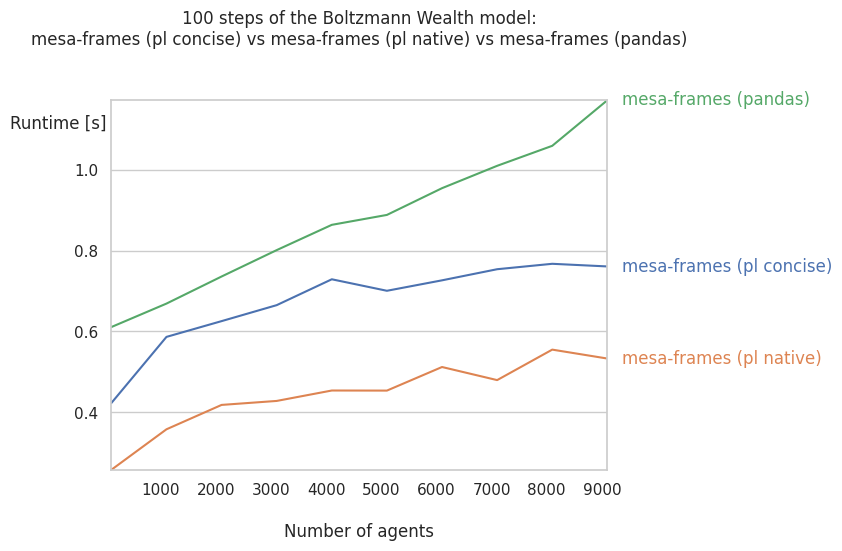
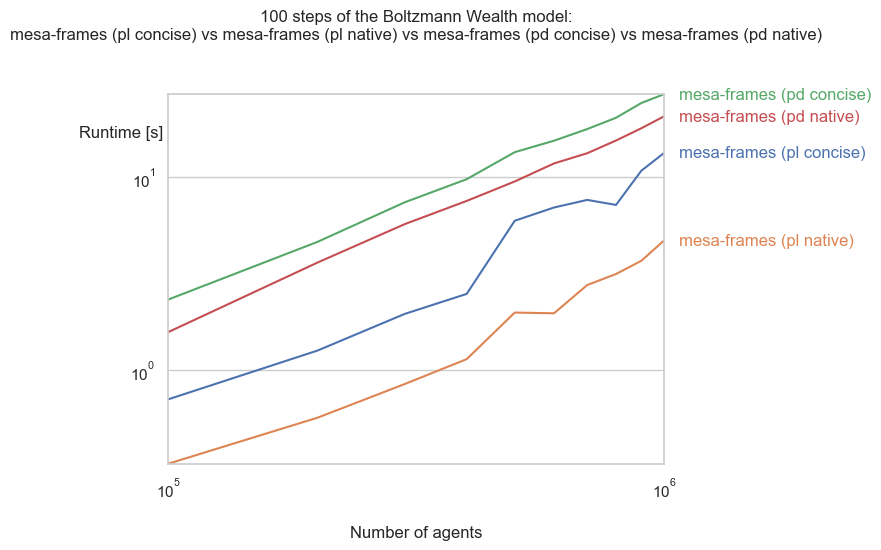
speed up mesa, add perfplot to dev dependencies

diff --git a/docs/scripts/readme_plot.py b/docs/scripts/readme_plot.py
@@ -1,3 +1,5 @@
+from random import choice, shuffle
+
 import matplotlib.pyplot as plt
 import mesa
 import numpy as np
@@ -28,7 +30,7 @@ class MoneyAgent(mesa.Agent):
     def step(self):
         # Verify agent has some wealth
         if self.wealth > 0:
-            other_agent = self.random.choice(self.model.schedule.agents)
+            other_agent = choice(self.model.agents)
             if other_agent is not None:
                 other_agent.wealth += 1
                 self.wealth -= 1
@@ -41,19 +43,13 @@ class MoneyModel(mesa.Model):
         super().__init__()
         self.num_agents = N
         # Create scheduler and assign it to the model
-        self.schedule = mesa.time.RandomActivation(self)
-
-        # Create agents
-        for i in range(self.num_agents):
-            a = MoneyAgent(i, self)
-            # Add the agent to the scheduler
-            self.schedule.add(a)
+        self.agents = [MoneyAgent(i, self) for i in range(self.num_agents)]
 
     def step(self):
         """Advance the model by one step."""
-
-        # The model's step will go here for now this will call the step method of each agent and print the agent's unique_id
-        self.schedule.step()
+        shuffle(self.agents)
+        for agent in self.agents:
+            agent.step()
 
     def run_model(self, n_steps) -> None:
         for _ in range(n_steps):
@@ -176,7 +172,9 @@ class MoneyAgentPandasConcise(AgentSetPandas):
         # 2. Adding the dataframe with add
         # self.add(pd.DataFrame({"unique_id": np.arange(n), "wealth": np.ones(n)}))
         # 3. Adding the dataframe with __iadd__
-        self += pd.DataFrame({"unique_id": np.arange(n), "wealth": np.ones(n)})
+        self += pd.DataFrame(
+            {"unique_id": np.arange(n, dtype="int64"), "wealth": np.ones(n)}
+        )
 
     def step(self) -> None:
         # The give_money method is called
@@ -212,7 +210,9 @@ class MoneyAgentPandasNative(AgentSetPandas):
     def __init__(self, n: int, model: ModelDF) -> None:
         super().__init__(model)
         ## Adding the agents to the agent set
-        self += pd.DataFrame({"unique_id": np.arange(n), "wealth": np.ones(n)})
+        self += pd.DataFrame(
+            {"unique_id": np.arange(n, dtype="int64"), "wealth": np.ones(n)}
+        )
 
     def step(self) -> None:
         # The give_money method is called
@@ -274,33 +274,68 @@ def mesa_frames_pandas_native(n_agents: int) -> None:
     model.run_model(100)
 
 
+def plot_and_print_benchmark(labels, kernels, n_range, title, image_path):
+    out = perfplot.bench(
+        setup=lambda n: n,
+        kernels=kernels,
+        labels=labels,
+        n_range=n_range,
+        xlabel="Number of agents",
+        equality_check=None,
+        title=title,
+    )
+
+    plt.ylabel("Execution time (s)")
+    out.save(image_path)
+
+    print("\nExecution times:")
+    for i, label in enumerate(labels):
+        print(f"---------------\n{label}:")
+        for n, t in zip(out.n_range, out.timings_s[i]):
+            print(f"  Number of agents: {n}, Time: {t:.2f} seconds")
+        print("---------------")
+
+
 def main():
     sns.set_theme(style="whitegrid")
 
-    labels = [
-        # "mesa",
+    labels_0 = [
+        "mesa",
         "mesa-frames (pl concise)",
         "mesa-frames (pl native)",
         "mesa-frames (pd concise)",
         "mesa-frames (pd native)",
     ]
-    out = perfplot.bench(
-        setup=lambda n: n,
-        kernels=[
-            # mesa_implementation,
-            mesa_frames_polars_concise,
-            mesa_frames_polars_native,
-            mesa_frames_pandas_concise,
-            mesa_frames_pandas_native,
-        ],
-        labels=labels,
-        n_range=[k for k in range(100, 10000, 1000)],
-        xlabel="Number of agents",
-        equality_check=None,
-        title="100 steps of the Boltzmann Wealth model:\n" + " vs ".join(labels),
-    )
-    plt.ylabel("Execution time (s)")
-    out.save("docs/images/readme_plot_2.png")
+    kernels_0 = [
+        mesa_implementation,
+        mesa_frames_polars_concise,
+        mesa_frames_polars_native,
+        mesa_frames_pandas_concise,
+        mesa_frames_pandas_native,
+    ]
+    n_range_0 = [k for k in range(0, 100001, 10000)]
+    title_0 = "100 steps of the Boltzmann Wealth model:\n" + " vs ".join(labels_0)
+    image_path_0 = "docs/images/readme_plot_0.png"
+
+    plot_and_print_benchmark(labels_0, kernels_0, n_range_0, title_0, image_path_0)
+
+    labels_1 = [
+        "mesa-frames (pl concise)",
+        "mesa-frames (pl native)",
+        "mesa-frames (pd concise)",
+        "mesa-frames (pd native)",
+    ]
+    kernels_1 = [
+        mesa_frames_polars_concise,
+        mesa_frames_polars_native,
+        mesa_frames_pandas_concise,
+        mesa_frames_pandas_native,
+    ]
+    n_range_1 = [k for k in range(100000, 1000001, 100000)]
+    title_1 = "100 steps of the Boltzmann Wealth model:\n" + " vs ".join(labels_1)
+    image_path_1 = "docs/images/readme_plot_1.png"
+
+    plot_and_print_benchmark(labels_1, kernels_1, n_range_1, title_1, image_path_1)
 
 
 if __name__ == "__main__":

diff --git a/README.md b/README.md
@@ -11,7 +11,7 @@ DataFrames are optimized for simultaneous operations through [SIMD processing](h
 
 The following is a performance graph showing execution time using mesa and mesa-frames for the [Boltzmann Wealth model](https://mesa.readthedocs.io/en/stable/tutorials/intro_tutorial.html).
 
-![Performance Graph](https://github.com/adamamer20/mesa_frames/blob/main/docs/images/readme_plot.png)
+![Performance Graph](https://github.com/adamamer20/mesa_frames/blob/main/docs/images/readme_plot_0.png)
 
 ![Performance Graph without Mesa](https://github.com/adamamer20/mesa_frames/blob/main/docs/images/readme_plot_1.png)
 
